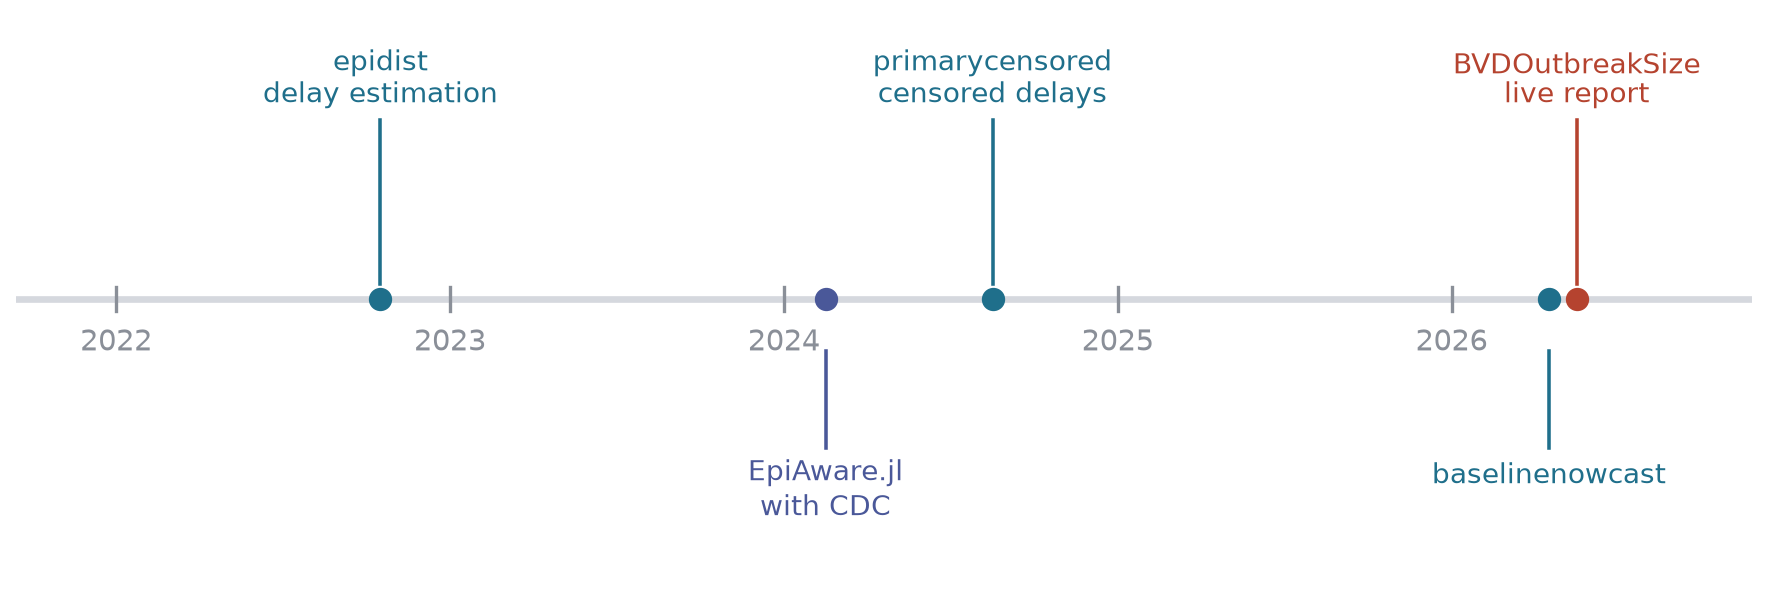
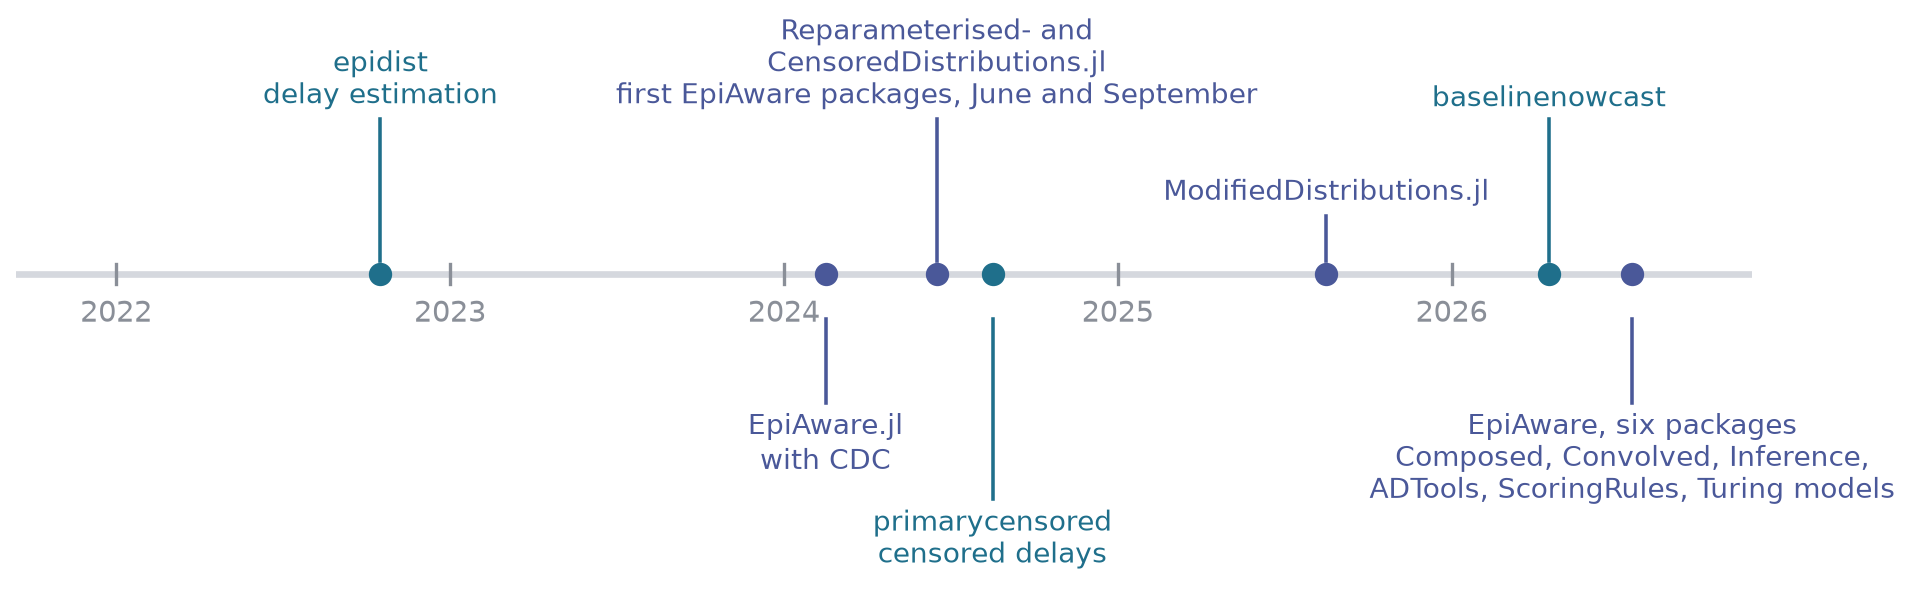
fix: keynote quote as a blockquote, EpiAware packages on the tools timeline, live report wording, cuts

diff --git a/scripts/keynote-timeline.py b/scripts/keynote-timeline.py
@@ -190,9 +190,13 @@ PANDEMIC = [
 SINCE = [
     ("2022-10", "epidist\ndelay estimation", 1.2, TEAL),
     ("2024-02", "EpiAware.jl\nwith CDC", -1.0, SLATE),
-    ("2024-08", "primarycensored\ncensored delays", 1.2, TEAL),
-    ("2026-04", "baselinenowcast", -1.0, TEAL),
-    ("2026-05", "BVDOutbreakSize\nlive report", 1.2, BRICK),
+    ("2024-06", "Reparameterised- and\nCensoredDistributions.jl\n"
+     "first EpiAware packages, June and September", 1.2, SLATE),
+    ("2024-08", "primarycensored\ncensored delays", -1.75, TEAL),
+    ("2025-08", "ModifiedDistributions.jl", 0.45, SLATE),
+    ("2026-04", "baselinenowcast", 1.2, TEAL),
+    ("2026-07", "EpiAware, six packages\nComposed, Convolved, Inference,\n"
+     "ADTools, ScoringRules, Turing models", -1.0, SLATE),
 ]
 
 
@@ -205,7 +209,8 @@ def packages(items, years, xlim, out):
     lo, hi = xlim
     fig, ax = plt.subplots(figsize=(14, 4.6))
     ax.set_xlim(lo, hi)
-    ax.set_ylim(-1.9, 1.9)
+    hs = [h for _, _, h, _ in items]
+    ax.set_ylim(min(hs) - 0.75, max(hs) + 0.7)
     ax.axis("off")
     ax.plot([lo, hi], [0, 0], color=LIGHT, lw=3, zorder=1)
     for year in years:
